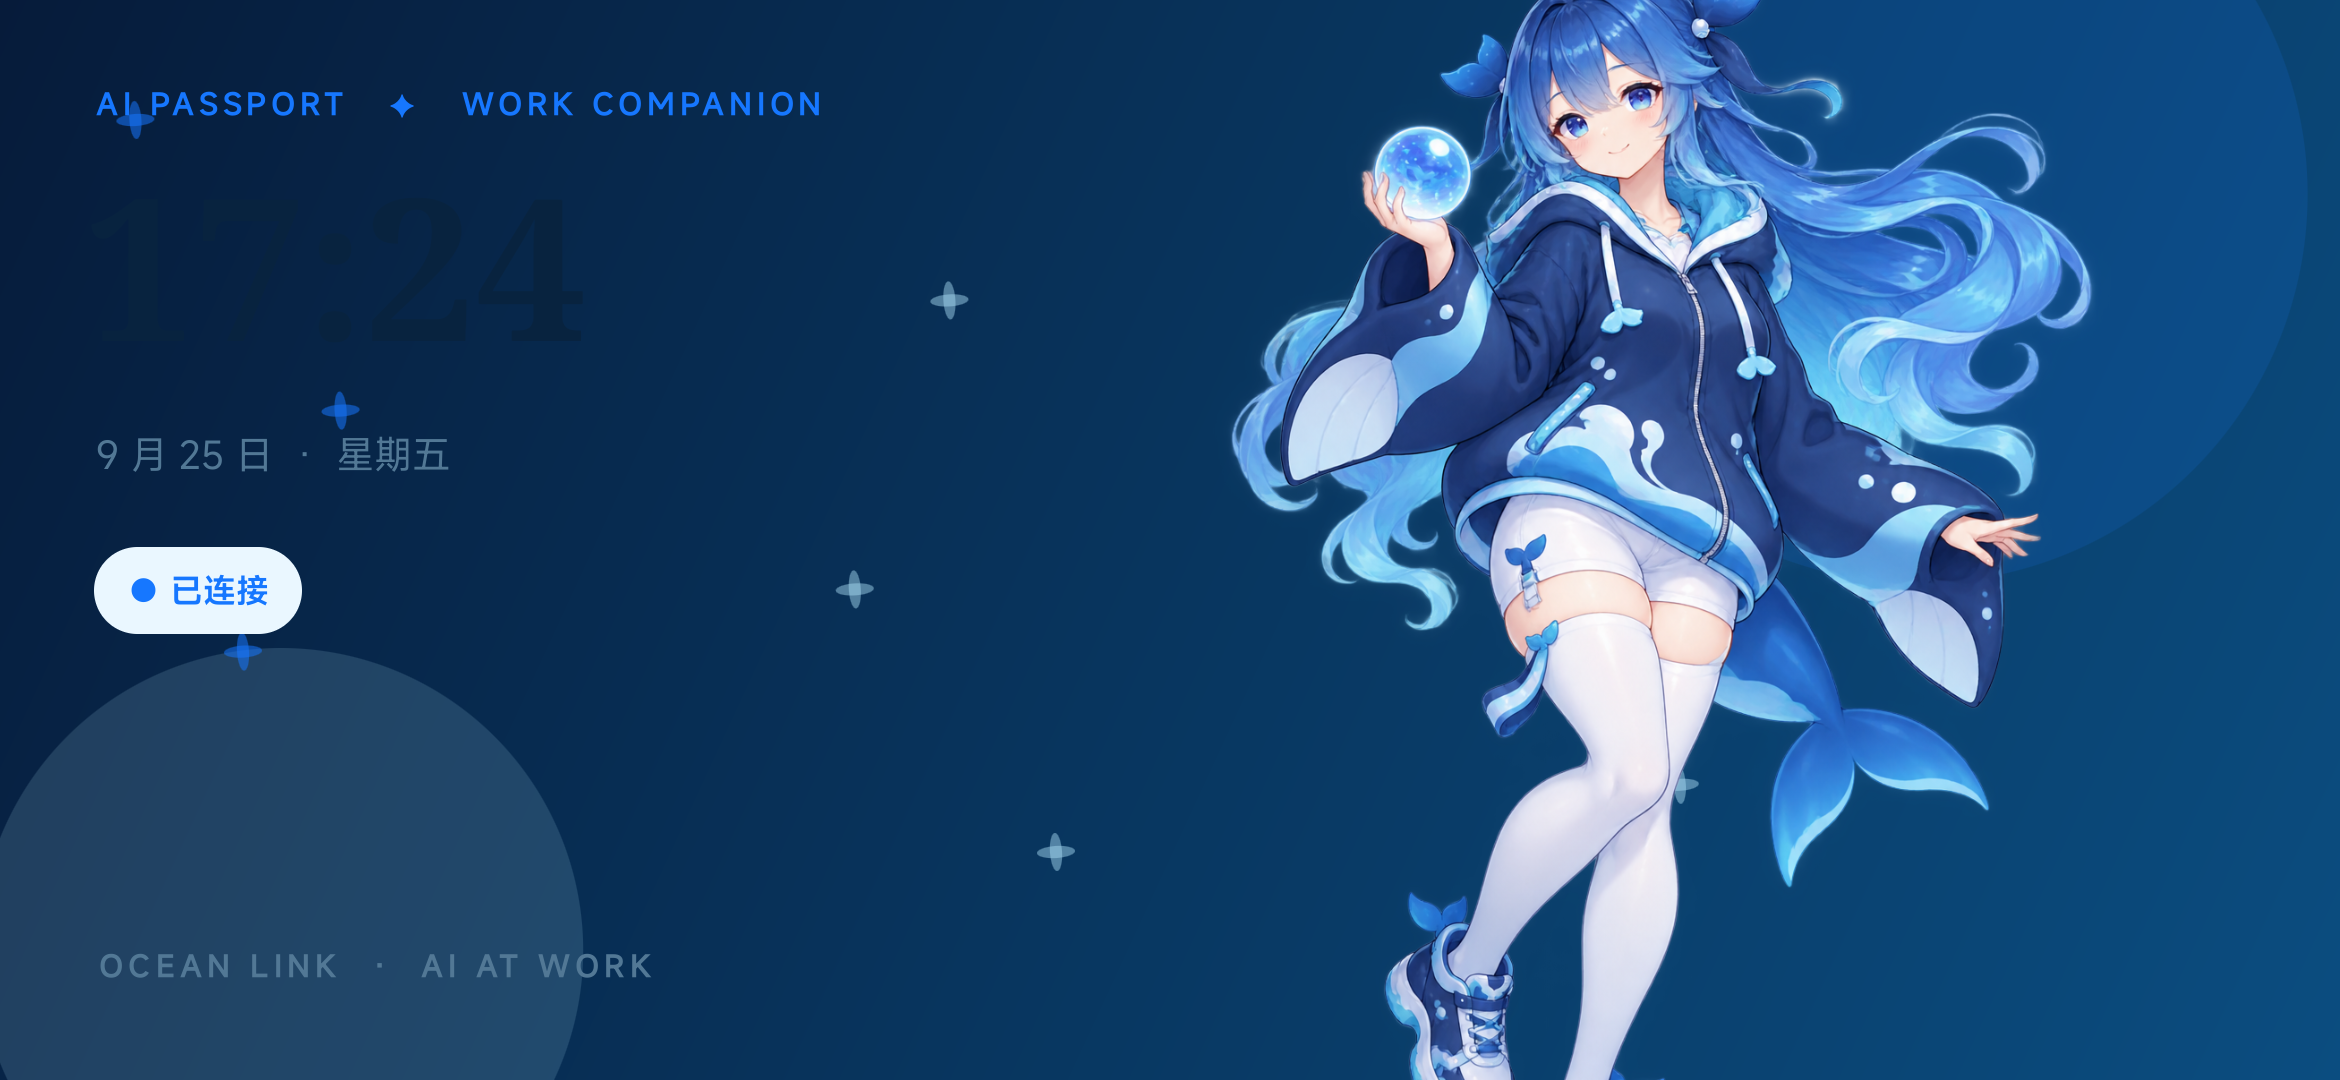
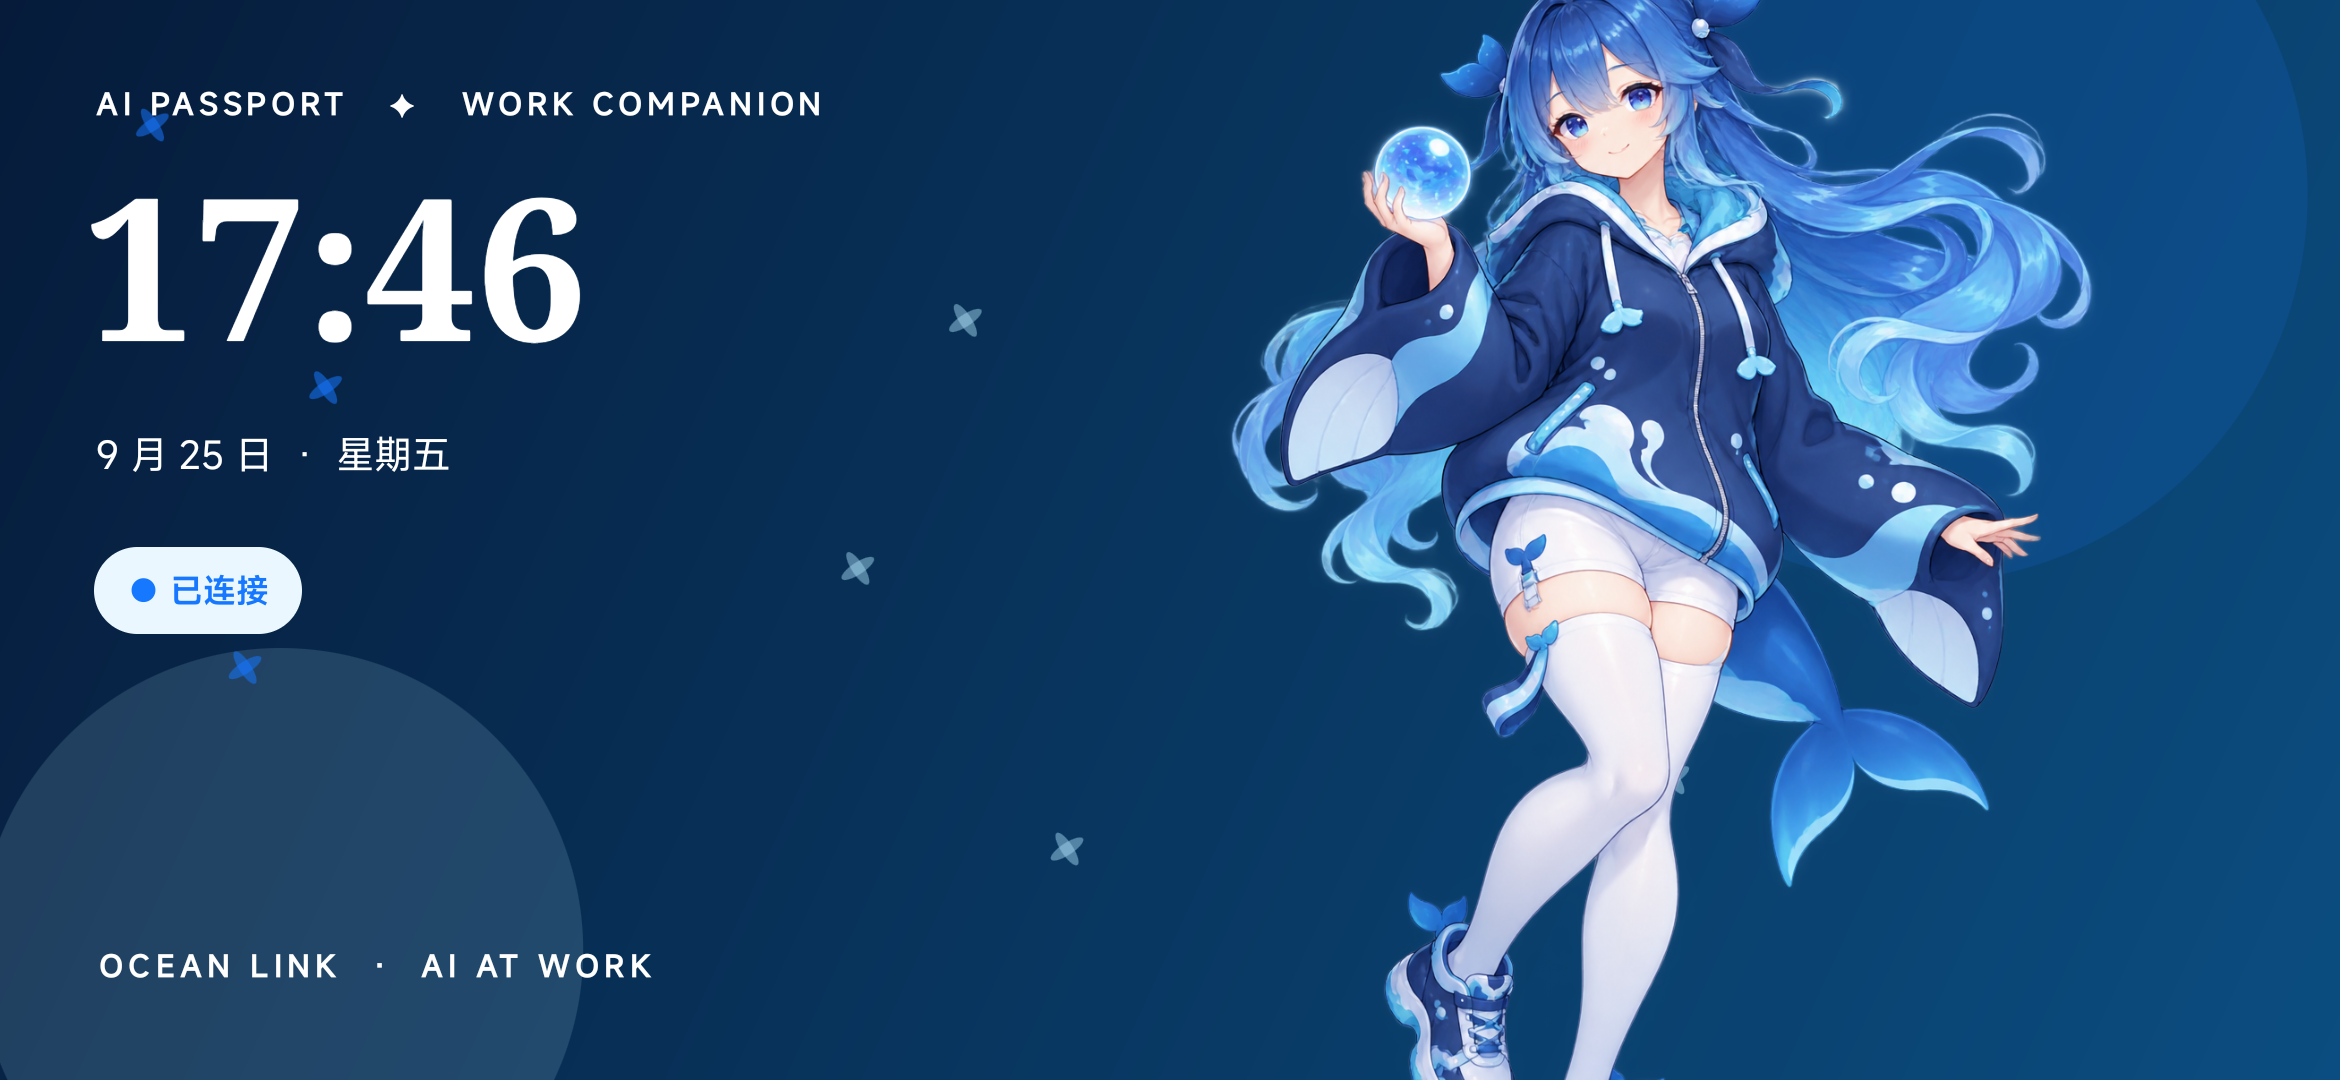
Improve wallpaper text contrast

diff --git a/android/app/src/main/java/dev/passport/redmi/MainActivity.java b/android/app/src/main/java/dev/passport/redmi/MainActivity.java
@@ -189,6 +189,27 @@ public class MainActivity extends Activity {
             (int)(Color.green(first) * (1-a) + Color.green(second) * a),
             (int)(Color.blue(first) * (1-a) + Color.blue(second) * a));
     }
+    private double luminance(int color) {
+        double[] channels = {Color.red(color) / 255.0, Color.green(color) / 255.0, Color.blue(color) / 255.0};
+        for (int i = 0; i < channels.length; i++)
+            channels[i] = channels[i] <= .04045 ? channels[i] / 12.92 : Math.pow((channels[i] + .055) / 1.055, 2.4);
+        return .2126 * channels[0] + .7152 * channels[1] + .0722 * channels[2];
+    }
+    private double contrast(int foreground, int background) {
+        double a = luminance(foreground), b = luminance(background);
+        return (Math.max(a, b) + .05) / (Math.min(a, b) + .05);
+    }
+    private double wallpaperContrast(int foreground) {
+        return Math.min(contrast(foreground, backgroundStart), contrast(foreground, backgroundEnd));
+    }
+    private int wallpaperText(int... candidates) {
+        int best = candidates[0]; double score = -1;
+        for (int candidate : candidates) {
+            double next = wallpaperContrast(candidate);
+            if (next > score) { best = candidate; score = next; }
+        }
+        return best;
+    }
     private Button button(String text, int color) {
         Button b = new Button(this); b.setText(text); b.setTextColor(Color.WHITE); b.setAllCaps(false); b.setTextSize(14);
         b.setBackground(background(theme.equals("midnight") ? 0xFF9B4B5B : color, 14)); return b;
@@ -266,14 +287,19 @@ public class MainActivity extends Activity {
         floatAnimation.setDuration(7000); floatAnimation.setRepeatCount(ValueAnimator.INFINITE);
         floatAnimation.setRepeatMode(ValueAnimator.REVERSE); floatAnimation.start();
 
-        TextView brand = label("AI PASSPORT   ✦   WORK COMPANION", 11, apple, true); brandView = brand;
+        int wallpaperPrimary = wallpaperText(ink, cream, Color.WHITE, Color.BLACK);
+        int wallpaperSecondary = wallpaperContrast(muted) >= 4.5 ? muted : wallpaperPrimary;
+        int wallpaperAccent = wallpaperContrast(apple) >= 4.5 ? apple : wallpaperPrimary;
+        TextView brand = label("AI PASSPORT   ✦   WORK COMPANION", 11, wallpaperAccent, true); brandView = brand;
         brand.setLetterSpacing(0.16f);
         FrameLayout.LayoutParams bp = new FrameLayout.LayoutParams(-2, -2, Gravity.TOP | Gravity.LEFT);
         bp.leftMargin = dp(landscapeMode ? 34 : 25); bp.topMargin = dp(landscapeMode ? 30 : 43); wallpaper.addView(brand, bp);
-        clock = label("--:--", landscapeMode ? 72 : 66, ink, true); clock.setTypeface(Typeface.create("serif", Typeface.BOLD));
+        Date now = new Date();
+        clock = label(new SimpleDateFormat("HH:mm", Locale.getDefault()).format(now), landscapeMode ? 72 : 66, wallpaperPrimary, true);
+        clock.setTypeface(Typeface.create("serif", Typeface.BOLD));
         FrameLayout.LayoutParams timeP = new FrameLayout.LayoutParams(-2, -2, Gravity.TOP | Gravity.LEFT);
         timeP.leftMargin = dp(landscapeMode ? 30 : 22); timeP.topMargin = dp(landscapeMode ? 57 : 79); wallpaper.addView(clock, timeP);
-        dateLabel = label("", 14, muted, false);
+        dateLabel = label(new SimpleDateFormat("M 月 d 日  ·  EEEE", Locale.SIMPLIFIED_CHINESE).format(now), 14, wallpaperSecondary, false);
         FrameLayout.LayoutParams dateP = new FrameLayout.LayoutParams(-2, -2, Gravity.TOP | Gravity.LEFT);
         dateP.leftMargin = dp(landscapeMode ? 35 : 27); dateP.topMargin = dp(landscapeMode ? 156 : 174); wallpaper.addView(dateLabel, dateP);
         connection = label("● 等待配对", 12, apple, true); pad(connection, 12, 8);
@@ -281,7 +307,7 @@ public class MainActivity extends Activity {
         FrameLayout.LayoutParams statusP = new FrameLayout.LayoutParams(-2, -2, Gravity.TOP | Gravity.LEFT);
         statusP.leftMargin = dp(landscapeMode ? 34 : 25); statusP.topMargin = dp(landscapeMode ? 199 : 217); wallpaper.addView(connection, statusP);
         String skinName = theme.equals("midnight") ? "MIDNIGHT" : theme.equals("custom") ? "MY COMPANION" : "OCEAN LINK";
-        TextView signature = label(skinName + "  ·  AI AT WORK", 11, muted, true); signatureView = signature;
+        TextView signature = label(skinName + "  ·  AI AT WORK", 11, wallpaperSecondary, true); signatureView = signature;
         signature.setLetterSpacing(.18f);
         FrameLayout.LayoutParams sigP = new FrameLayout.LayoutParams(-2, -2,
             Gravity.LEFT | (landscapeMode ? Gravity.BOTTOM : Gravity.TOP));

diff --git a/README.md b/README.md
@@ -21,9 +21,9 @@
 
 在 [Releases](../../releases) 下载：
 
-- `AI-Passport-Android-v0.2.0.apk`
-- `AI-Passport-macOS-v0.2.0.zip`
-- `AI-Passport-Windows-v0.2.0-x64.zip`
+- `AI-Passport-Android-v0.2.1.apk`
+- `AI-Passport-macOS-v0.2.1.zip`
+- `AI-Passport-Windows-v0.2.1-x64.zip`
 
 Android 端需要开启开发者选项和 USB 调试。桌面端点击“启动桥接”，再在手机输入六位配对码并点击“连接 / 配对”。USB 连接会自动配置 ADB 端口转发；Windows 包已包含 Android Platform Tools。局域网模式要求手机与电脑可以互相访问。
 
